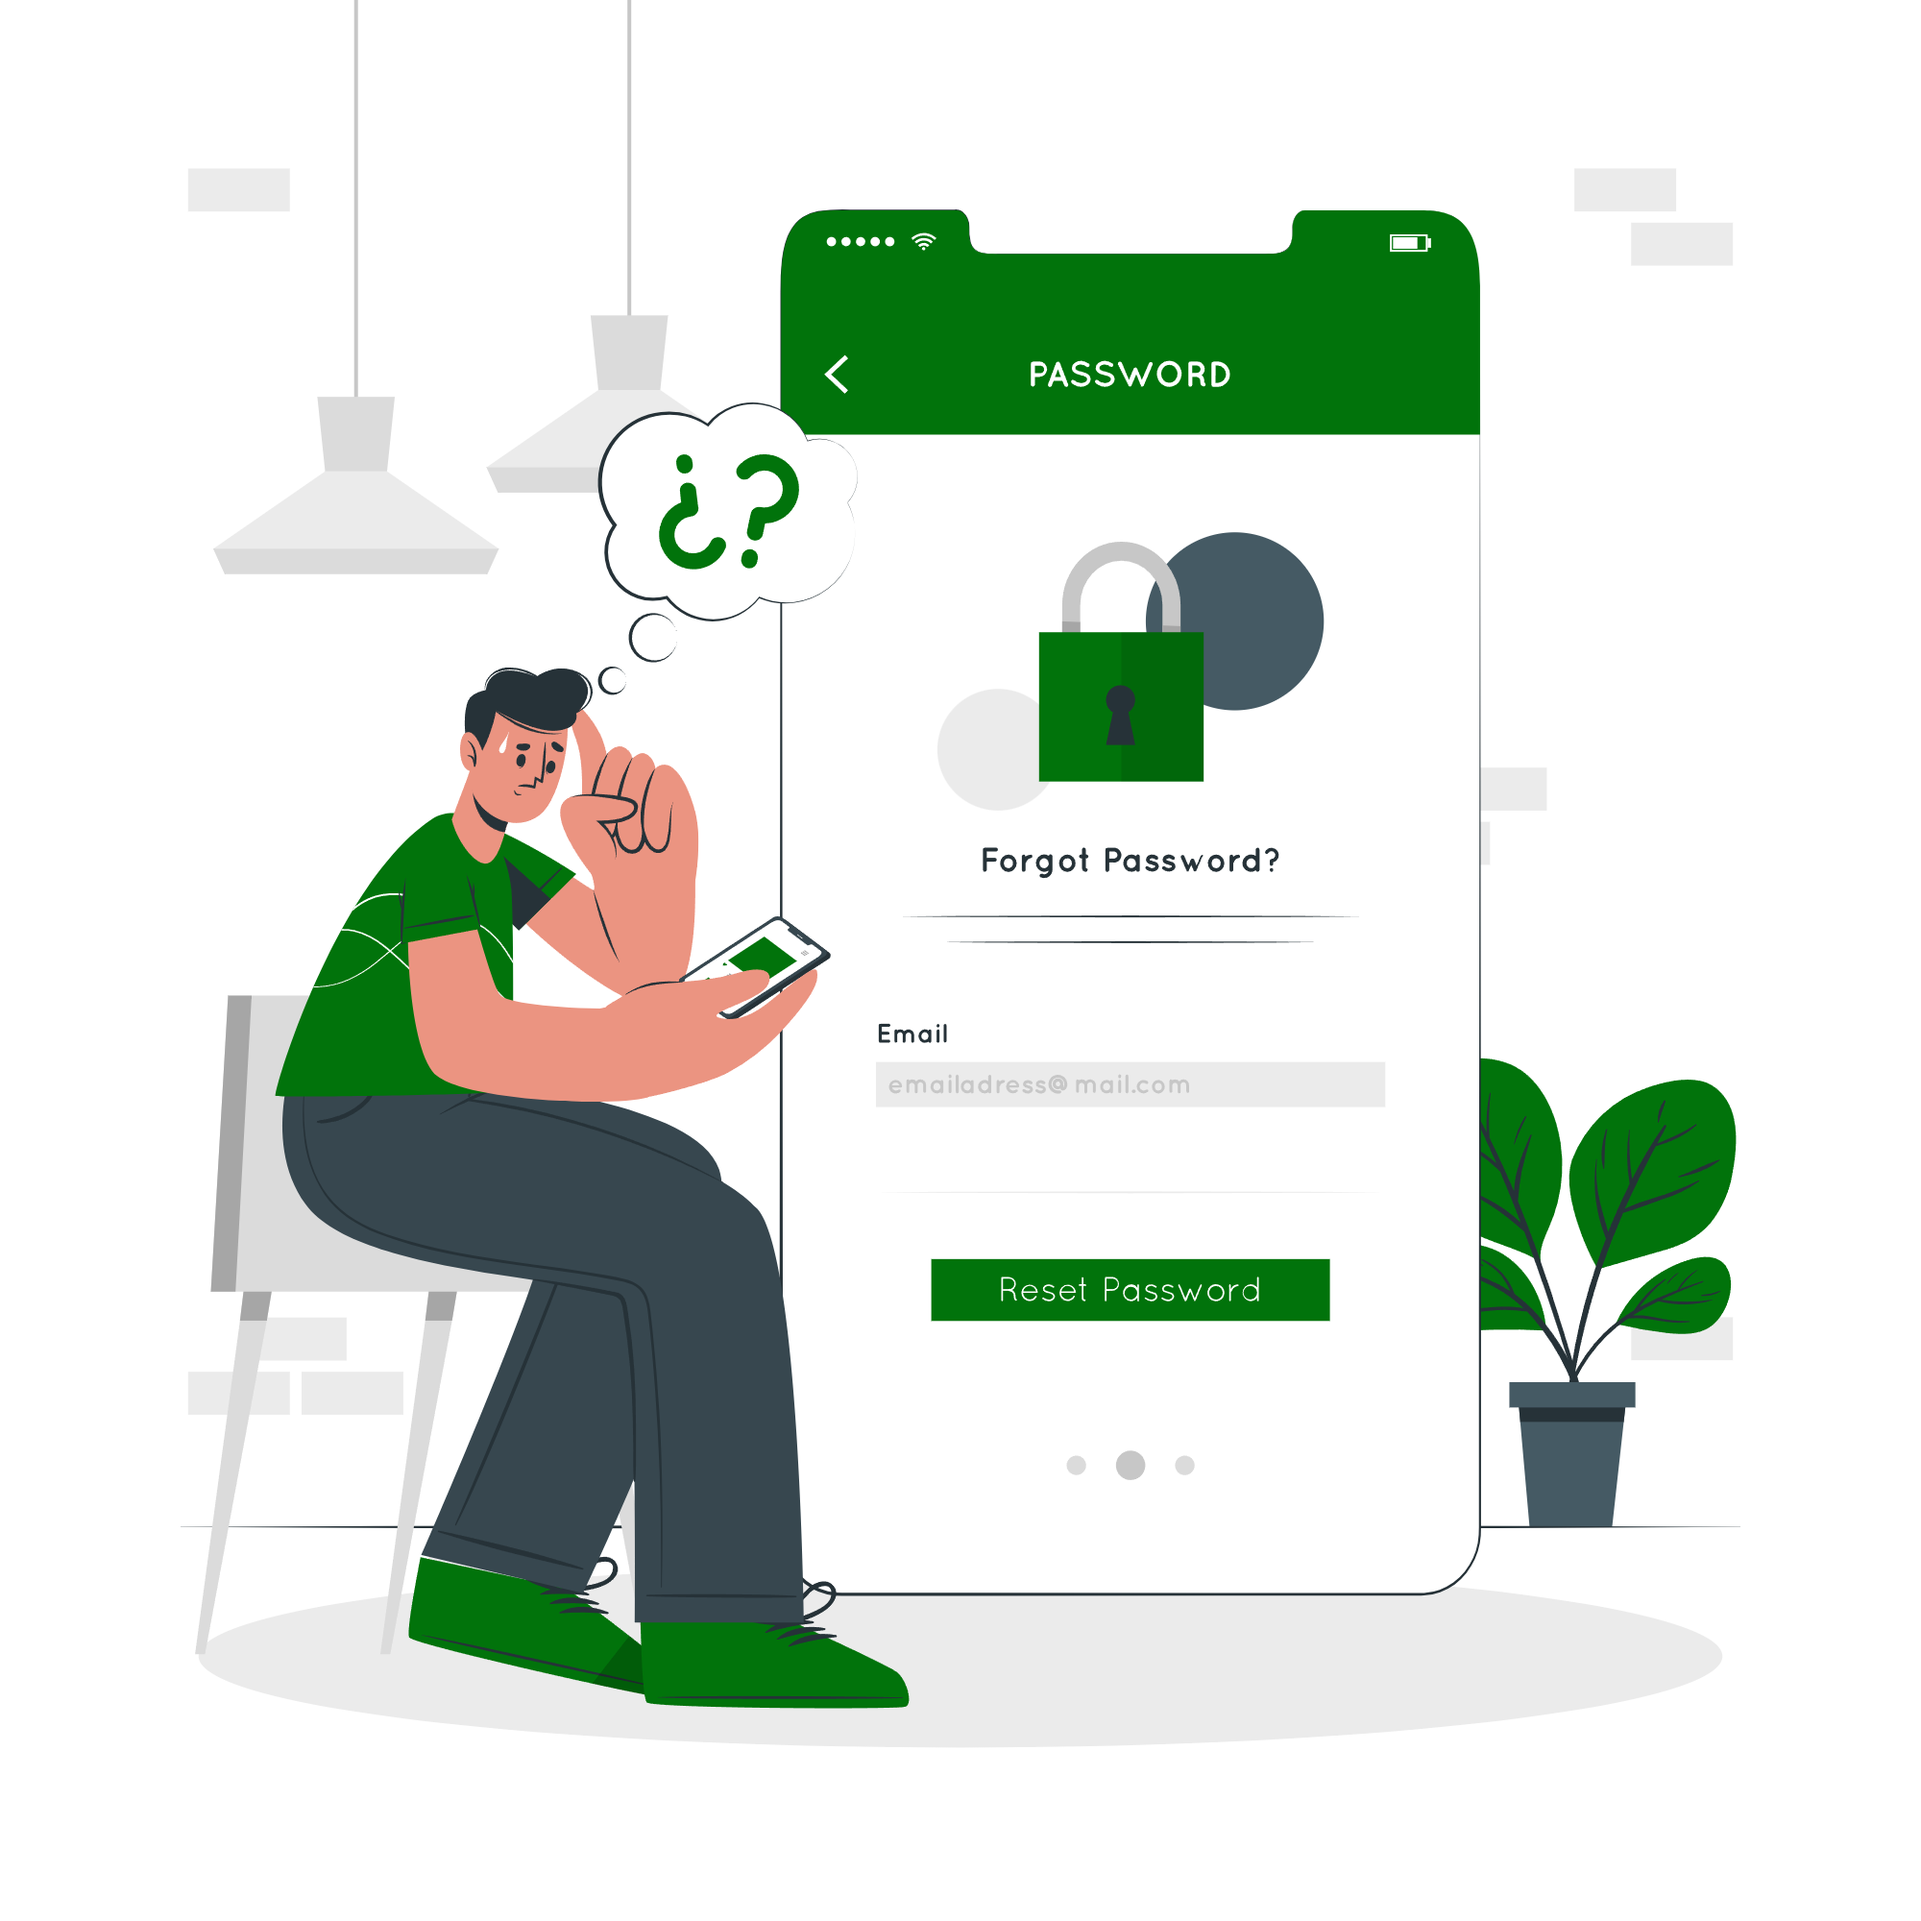
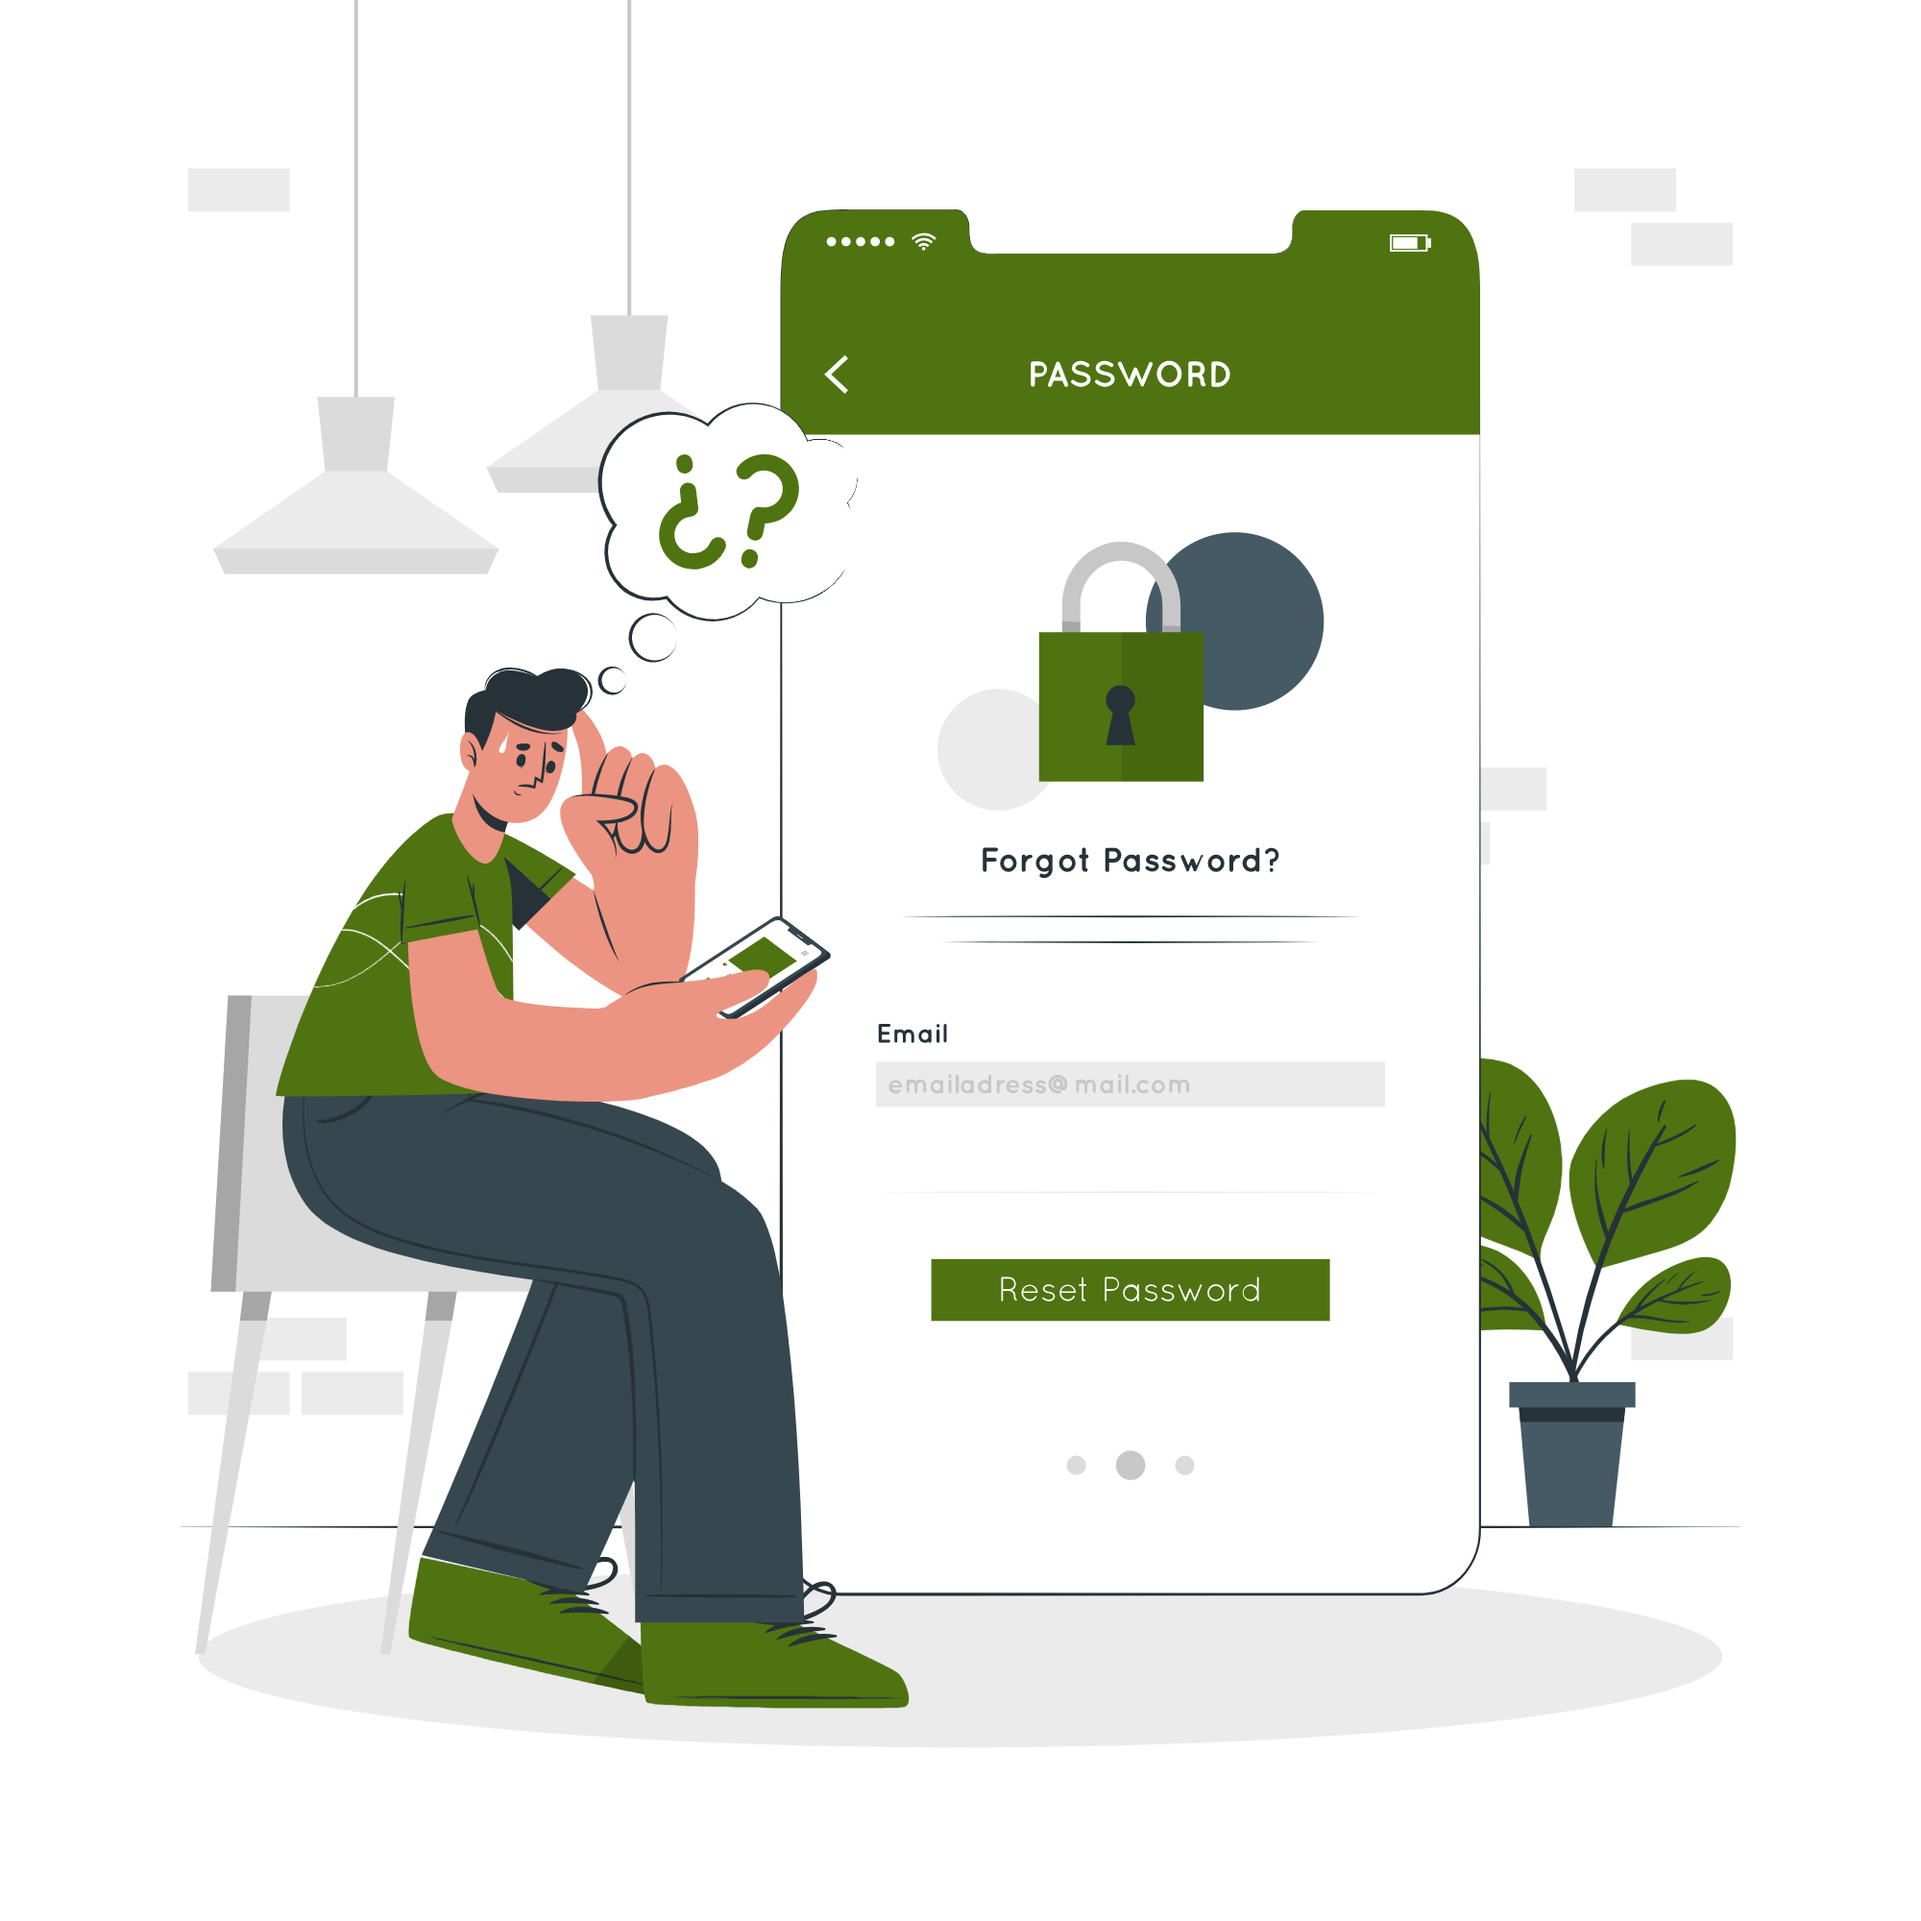
تعديل الالوان + اتعلم git يادماني

diff --git a/onroad 2/lib/authenticatio/provider/forgot_password.dart b/onroad 2/lib/authenticatio/provider/forgot_password.dart
@@ -51,9 +51,9 @@ class _ForgotPasswordPageState extends State<ForgotPasswordPage> {
       appBar: AppBar(
         backgroundColor: const Color.fromARGB(
           255,
-          1,
-          103,
-          10,
+          79,
+          115,
+          17,
         ),
         elevation: 0,
       ),
@@ -95,18 +95,18 @@ class _ForgotPasswordPageState extends State<ForgotPasswordPage> {
                     fontFamily: 'Brand Bold',
                     color: Color.fromARGB(
                       255,
-                      1,
-                      103,
-                      10,
+                      79,
+                      115,
+                      17,
                     ),
                   )),
                   prefixIcon: const Icon(
                     Icons.email,
                     color: Color.fromARGB(
                       255,
-                      1,
-                      103,
-                      10,
+                      79,
+                      115,
+                      17,
                     ),
                   ),
                   border: OutlineInputBorder(
@@ -114,9 +114,9 @@ class _ForgotPasswordPageState extends State<ForgotPasswordPage> {
                       borderSide: const BorderSide(
                         color: Color.fromARGB(
                           255,
-                          1,
-                          103,
-                          10,
+                          79,
+                          115,
+                          17,
                         ),
                       )),
                   focusedBorder: OutlineInputBorder(
@@ -124,9 +124,9 @@ class _ForgotPasswordPageState extends State<ForgotPasswordPage> {
                       borderSide: const BorderSide(
                         color: Color.fromARGB(
                           255,
-                          1,
-                          103,
-                          10,
+                          79,
+                          115,
+                          17,
                         ),
                       )),
                 ),
@@ -139,9 +139,9 @@ class _ForgotPasswordPageState extends State<ForgotPasswordPage> {
               decoration: BoxDecoration(
                 color: const Color.fromARGB(
                   255,
-                  1,
-                  103,
-                  10,
+                  79,
+                  115,
+                  17,
                 ),
                 borderRadius: BorderRadius.circular(
                   30.0,

diff --git a/onroad 2/lib/user_TabPages/services_TabPage.dart b/onroad 2/lib/user_TabPages/services_TabPage.dart
@@ -31,7 +31,7 @@ class _ServicesTabPageState extends State<ServicesTabPage> {
                   child: Column(
                     children: [
                       Image.asset(
-                        'images/line.jpg',
+                        'images/line.png',
                         height: 45,
                         color: Colors.grey,
                       ),
@@ -53,7 +53,7 @@ class _ServicesTabPageState extends State<ServicesTabPage> {
                                 child: Image(
                                   height: 60,
                                   image: AssetImage(
-                                    'images/11.jpg',
+                                    'images/11.png',
                                   ),
                                 ),
                               ),
@@ -93,7 +93,7 @@ class _ServicesTabPageState extends State<ServicesTabPage> {
                                   height: 60,
 // width: double.infinity,
                                   image: AssetImage(
-                                    'images/12.jpg',
+                                    'images/12.png',
                                   ),
                                 ),
                               ),
@@ -133,7 +133,7 @@ class _ServicesTabPageState extends State<ServicesTabPage> {
                                   height: 60,
 // width: double.infinity,
                                   image: AssetImage(
-                                    'images/13.jpg',
+                                    'images/13.png',
                                   ),
                                 ),
                               ),
@@ -173,7 +173,7 @@ class _ServicesTabPageState extends State<ServicesTabPage> {
                                   height: 60,
 // width: double.infinity,
                                   image: AssetImage(
-                                    'images/10.jpg',
+                                    'images/10.png',
                                   ),
                                 ),
                               ),
